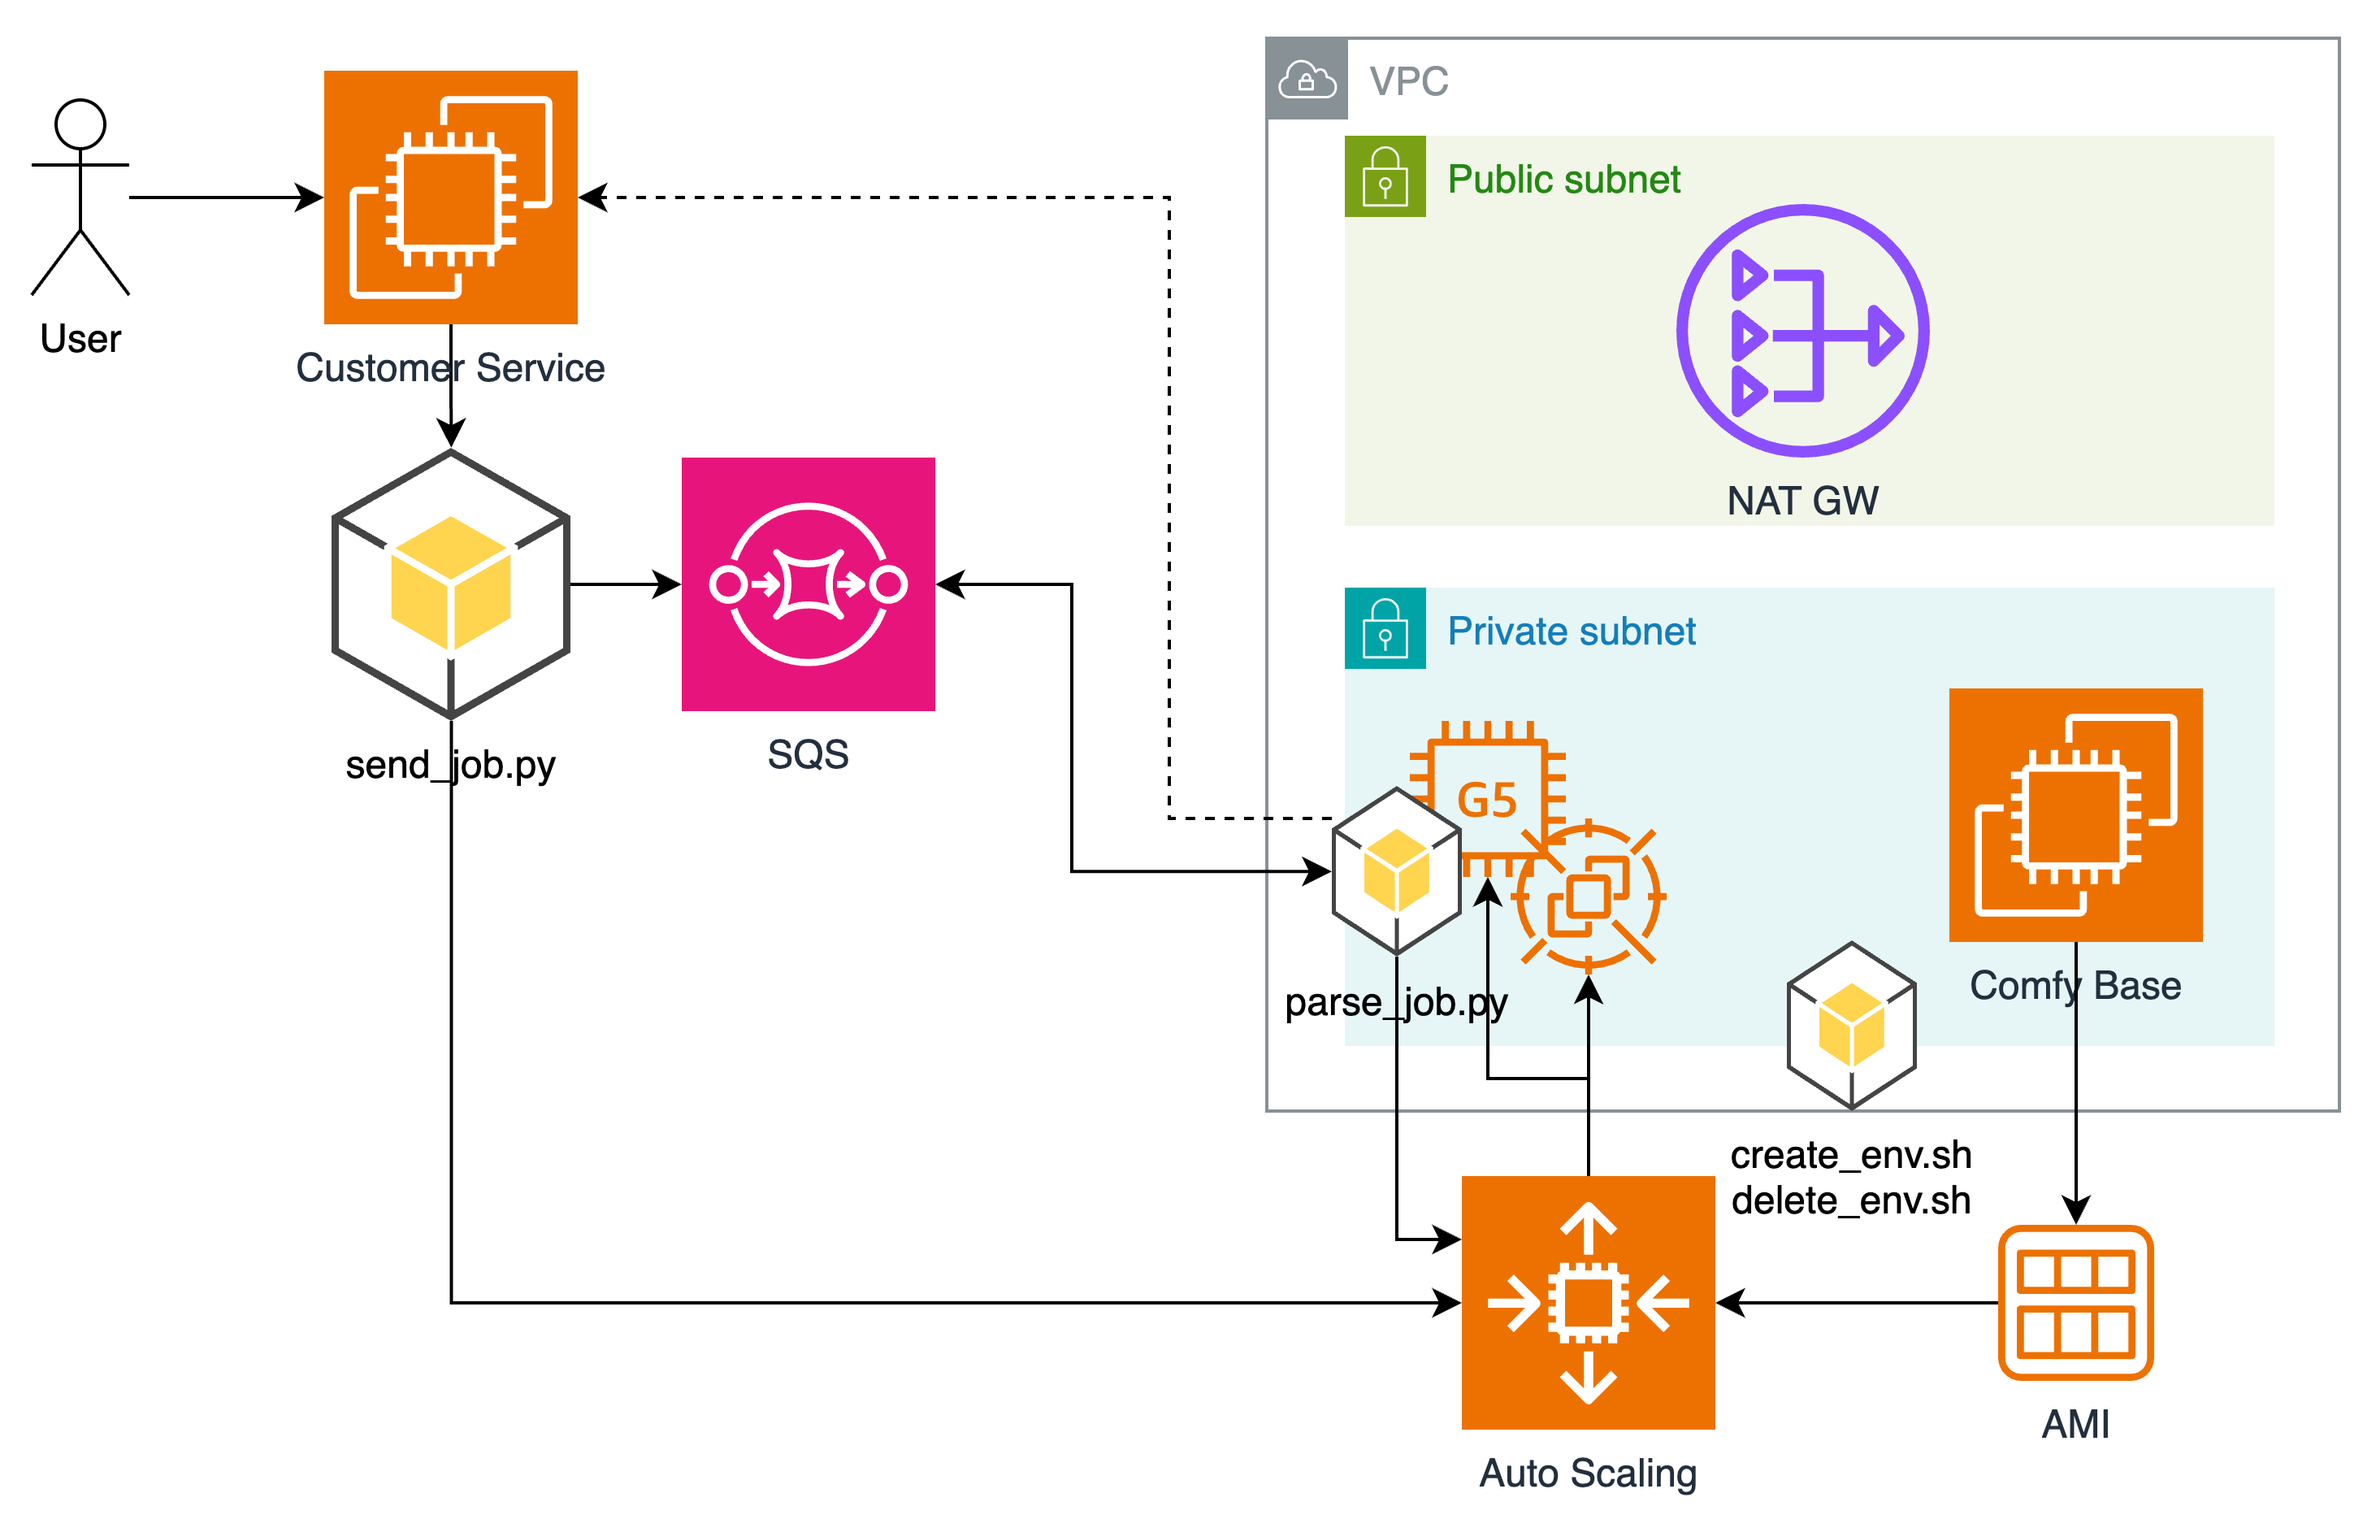
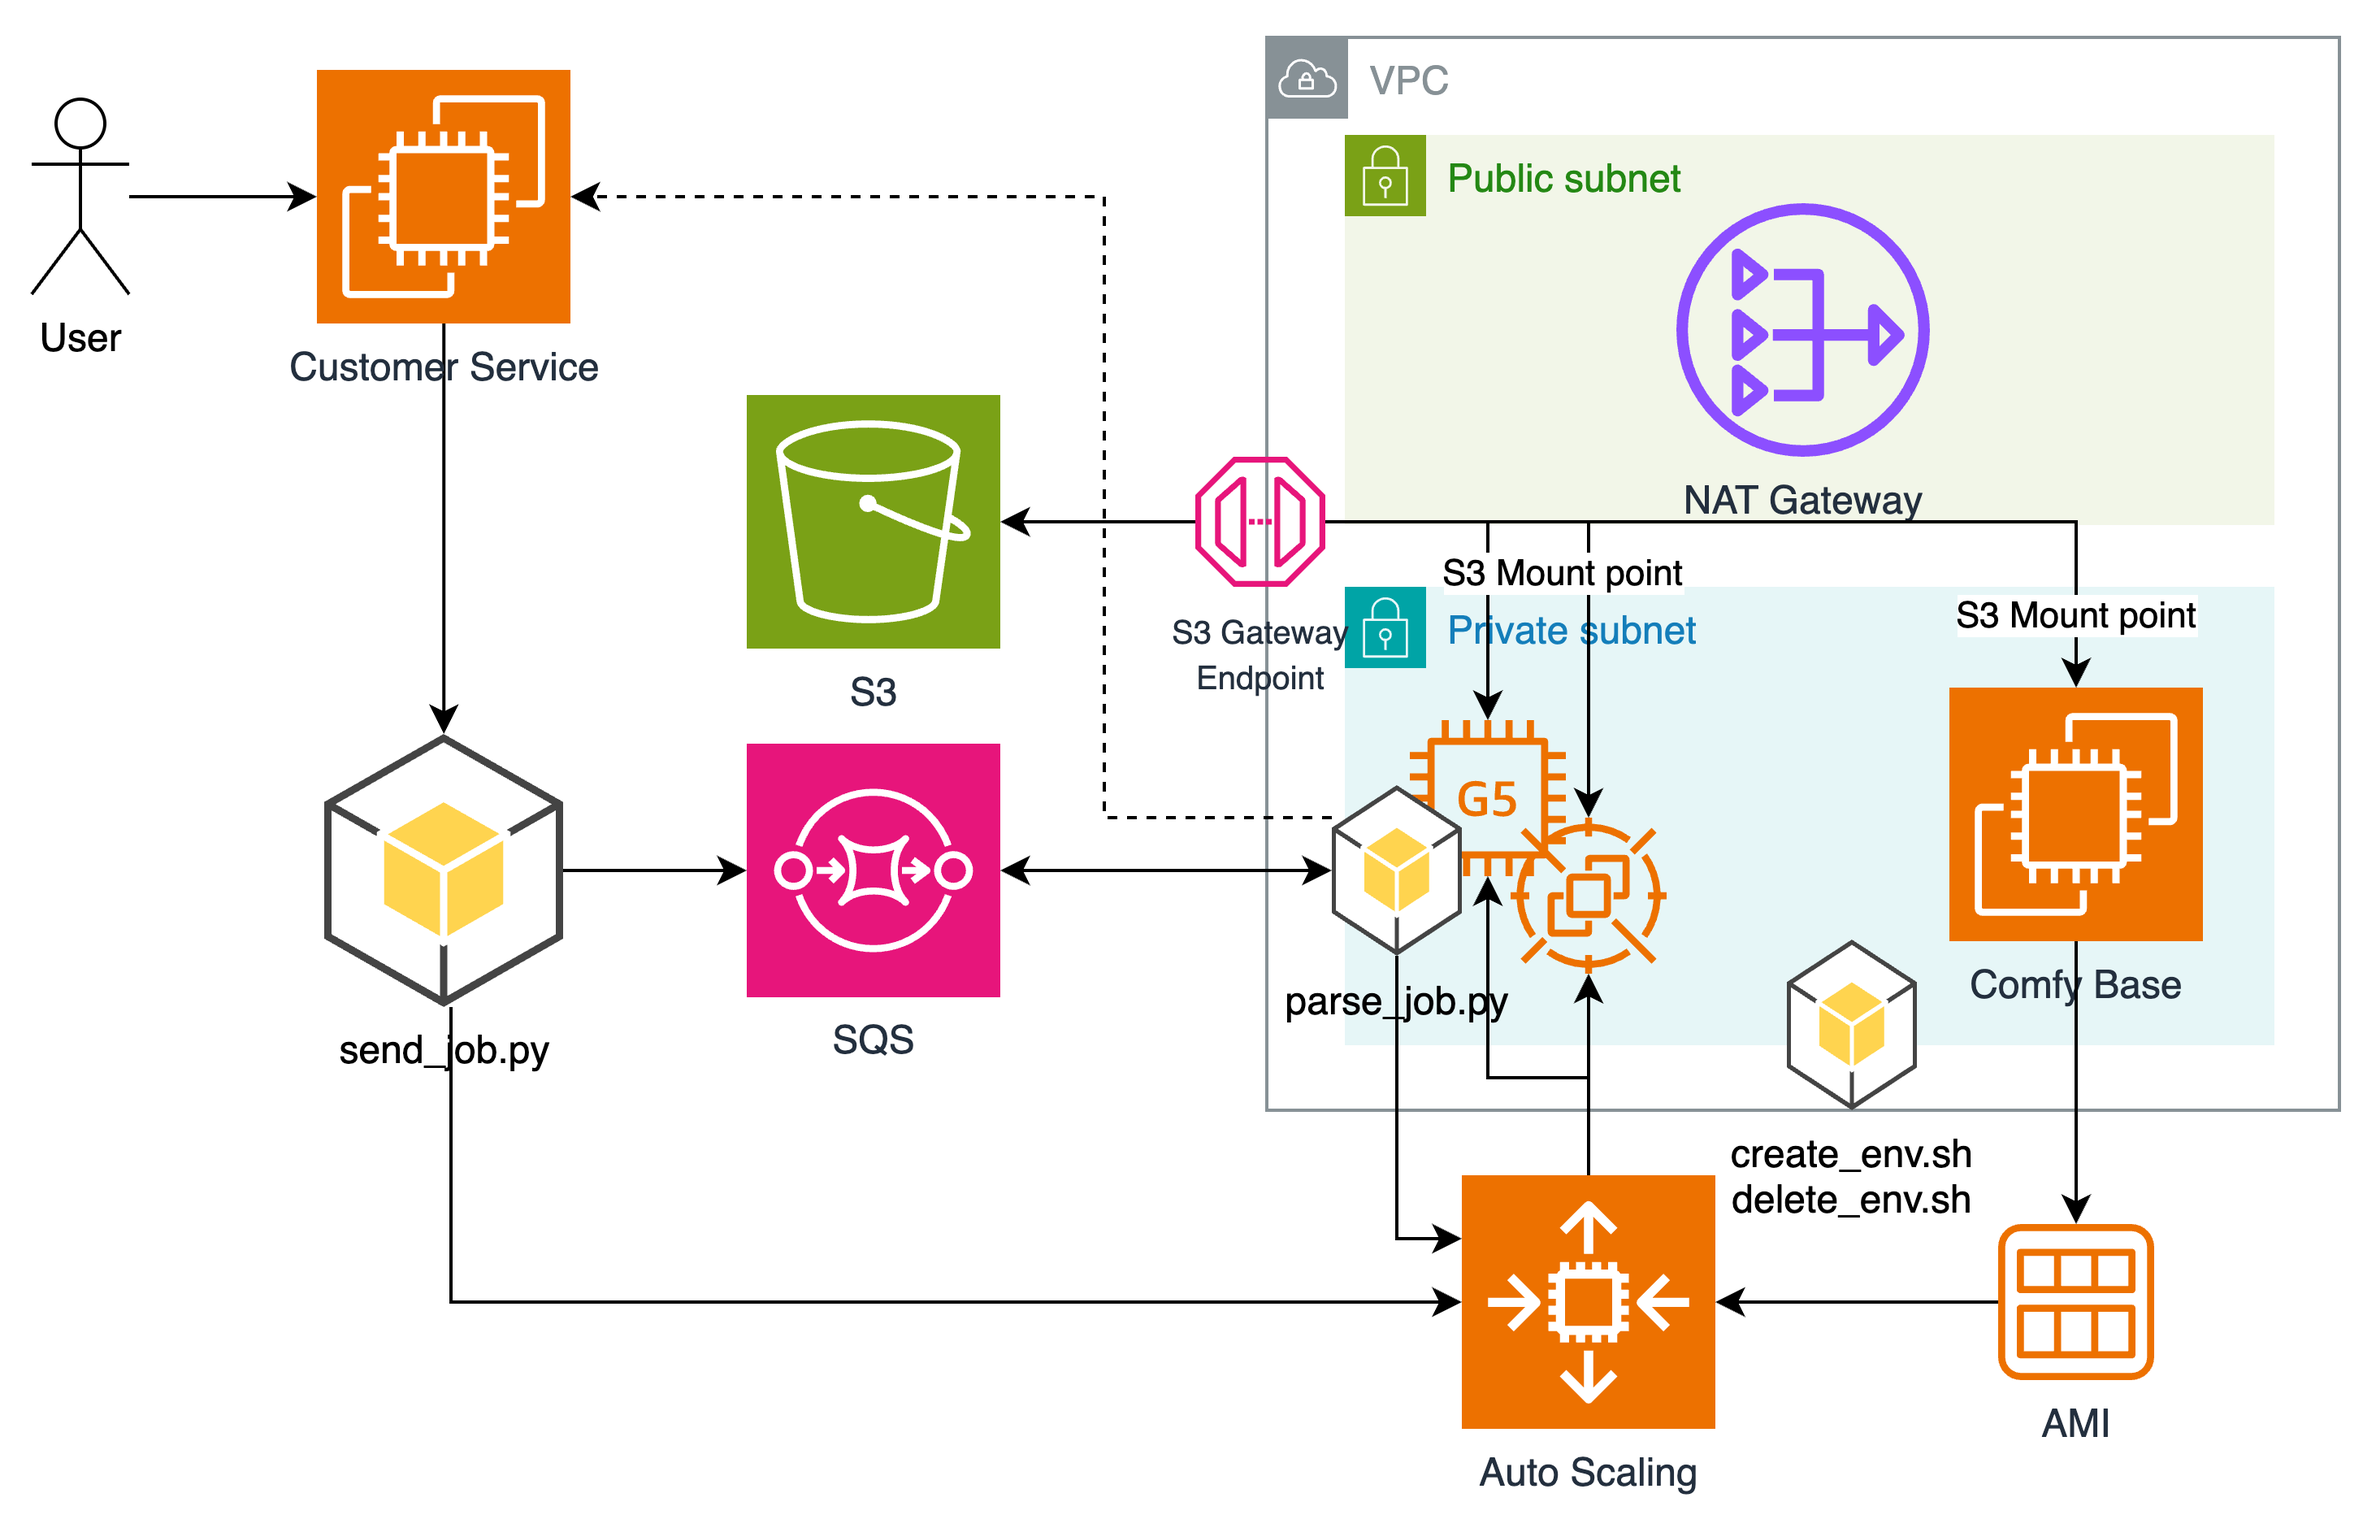
update logic for ComfyUI restart

diff --git a/comfy-manage/comfy_utils.py b/comfy-manage/comfy_utils.py
@@ -34,6 +34,11 @@ class ComfyWorkflow:
         with urllib.request.urlopen("http://{}/history/{}".format(self.server_address, prompt_id)) as response:
             return json.loads(response.read())
 
+    def reset_connection(self):
+        self.ws.close()
+        self.ws = websocket.WebSocket()
+        self.ws.connect("ws://{}/ws?clientId={}".format(self.server_address, self.client_id))
+
     # 定义一个函数来获取图片，这涉及到监听WebSocket消息
     def run_workflow(self, prompt):
         prompt_id = self.queue_prompt(prompt)['prompt_id']

diff --git a/comfy-manage/parse_job.py b/comfy-manage/parse_job.py
@@ -203,6 +203,8 @@ def main():
         except Exception as e:
             print(f"Unexpected error: {e}")
             time.sleep(5)
+            # 如果异常了，重连本机的 ComfyUI
+            workflow.reset_connection()
 
 if __name__ == "__main__":
     main()

diff --git a/comfy-manage/README.md b/comfy-manage/README.md
@@ -33,7 +33,8 @@
   * 操作系统：Ubuntu 24.04
   * 建议在私网中部署，通过 会话管理器 登录实例，由于 ComfyUI 界面没有权限管理，建议在公有子网中配置跳板机，利用ssh隧道进行机器访问
   * 默认方案无需开启任何安全组规则，如果需要直接访问 ComfyUI 的 Web 服务，注意配置相应安全组规则
-  * 磁盘EBS：gp3, 200G
+  * 磁盘EBS：gp3, 50G
+  * 注意：VPC 中应配置 S3 的 Gateway endpoint 以避免访问S3产生额外的 NAT Gateway 流量费。
 
 ### 授予权限
 
@@ -306,6 +307,10 @@ wget "https://huggingface.co/hakurei/waifu-diffusion-v1-4/resolve/main/vae/kl-f8
 wget "https://huggingface.co/ac-pill/upscale_models/resolve/main/RealESRGAN_x4plus_anime_6B.pth?download=true" -O /home/ubuntu/comfy/ComfyUI/models/upscale_models/RealESRGAN_x4plus_anime_6B.pth
 wget "https://huggingface.co/lllyasviel/ControlNet-v1-1/resolve/main/control_v11f1e_sd15_tile.pth?download=true" -O /home/ubuntu/comfy/ComfyUI/models/controlnet/control_v11f1e_sd15_tile.pth
 wget "https://huggingface.co/Comfy-Org/stable-diffusion-v1-5-archive/resolve/main/v1-5-pruned-emaonly-fp16.safetensors?download=true" -O /home/ubuntu/comfy/ComfyUI/models/checkpoints/v1-5-pruned-emaonly-fp16.safetensors
+# 重启 ComfyUI 以加载模型
+sudo systemctl restart comfyui.service
+# 观察日志
+journalctl -b -f
 ```
 
 * 测试工作流通过后，可以下载工作流API json，后面测试使用。
